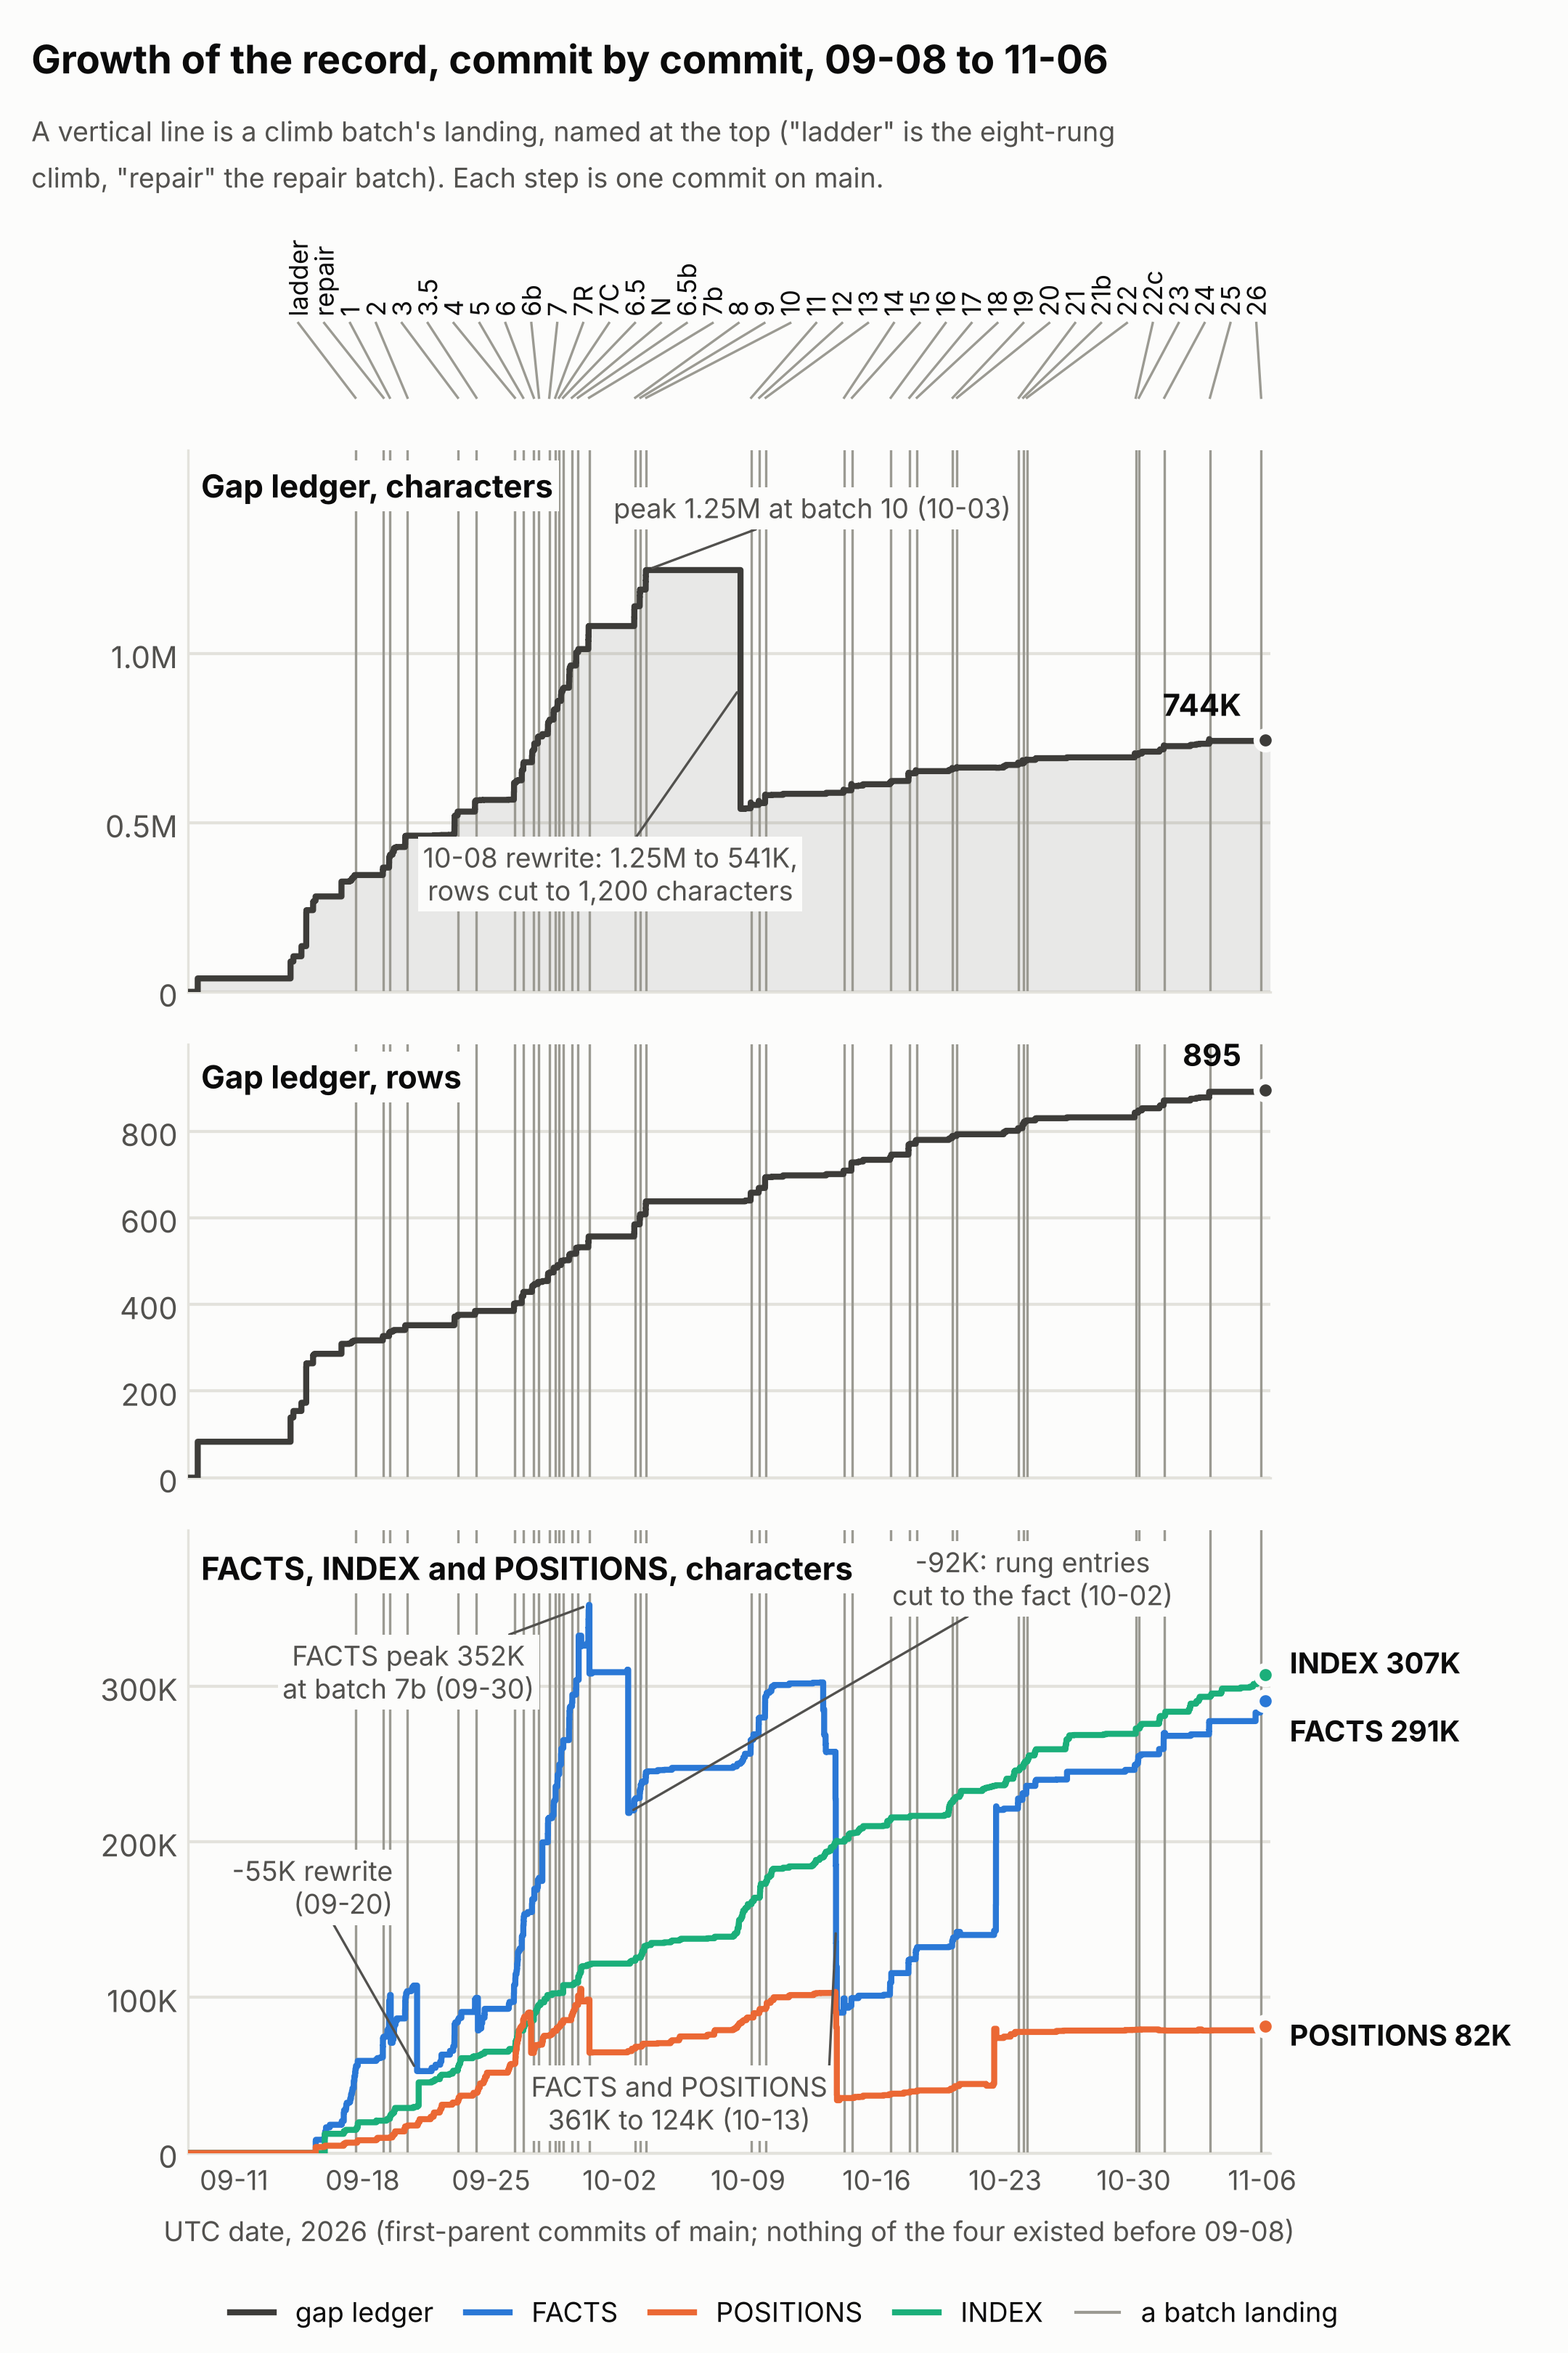
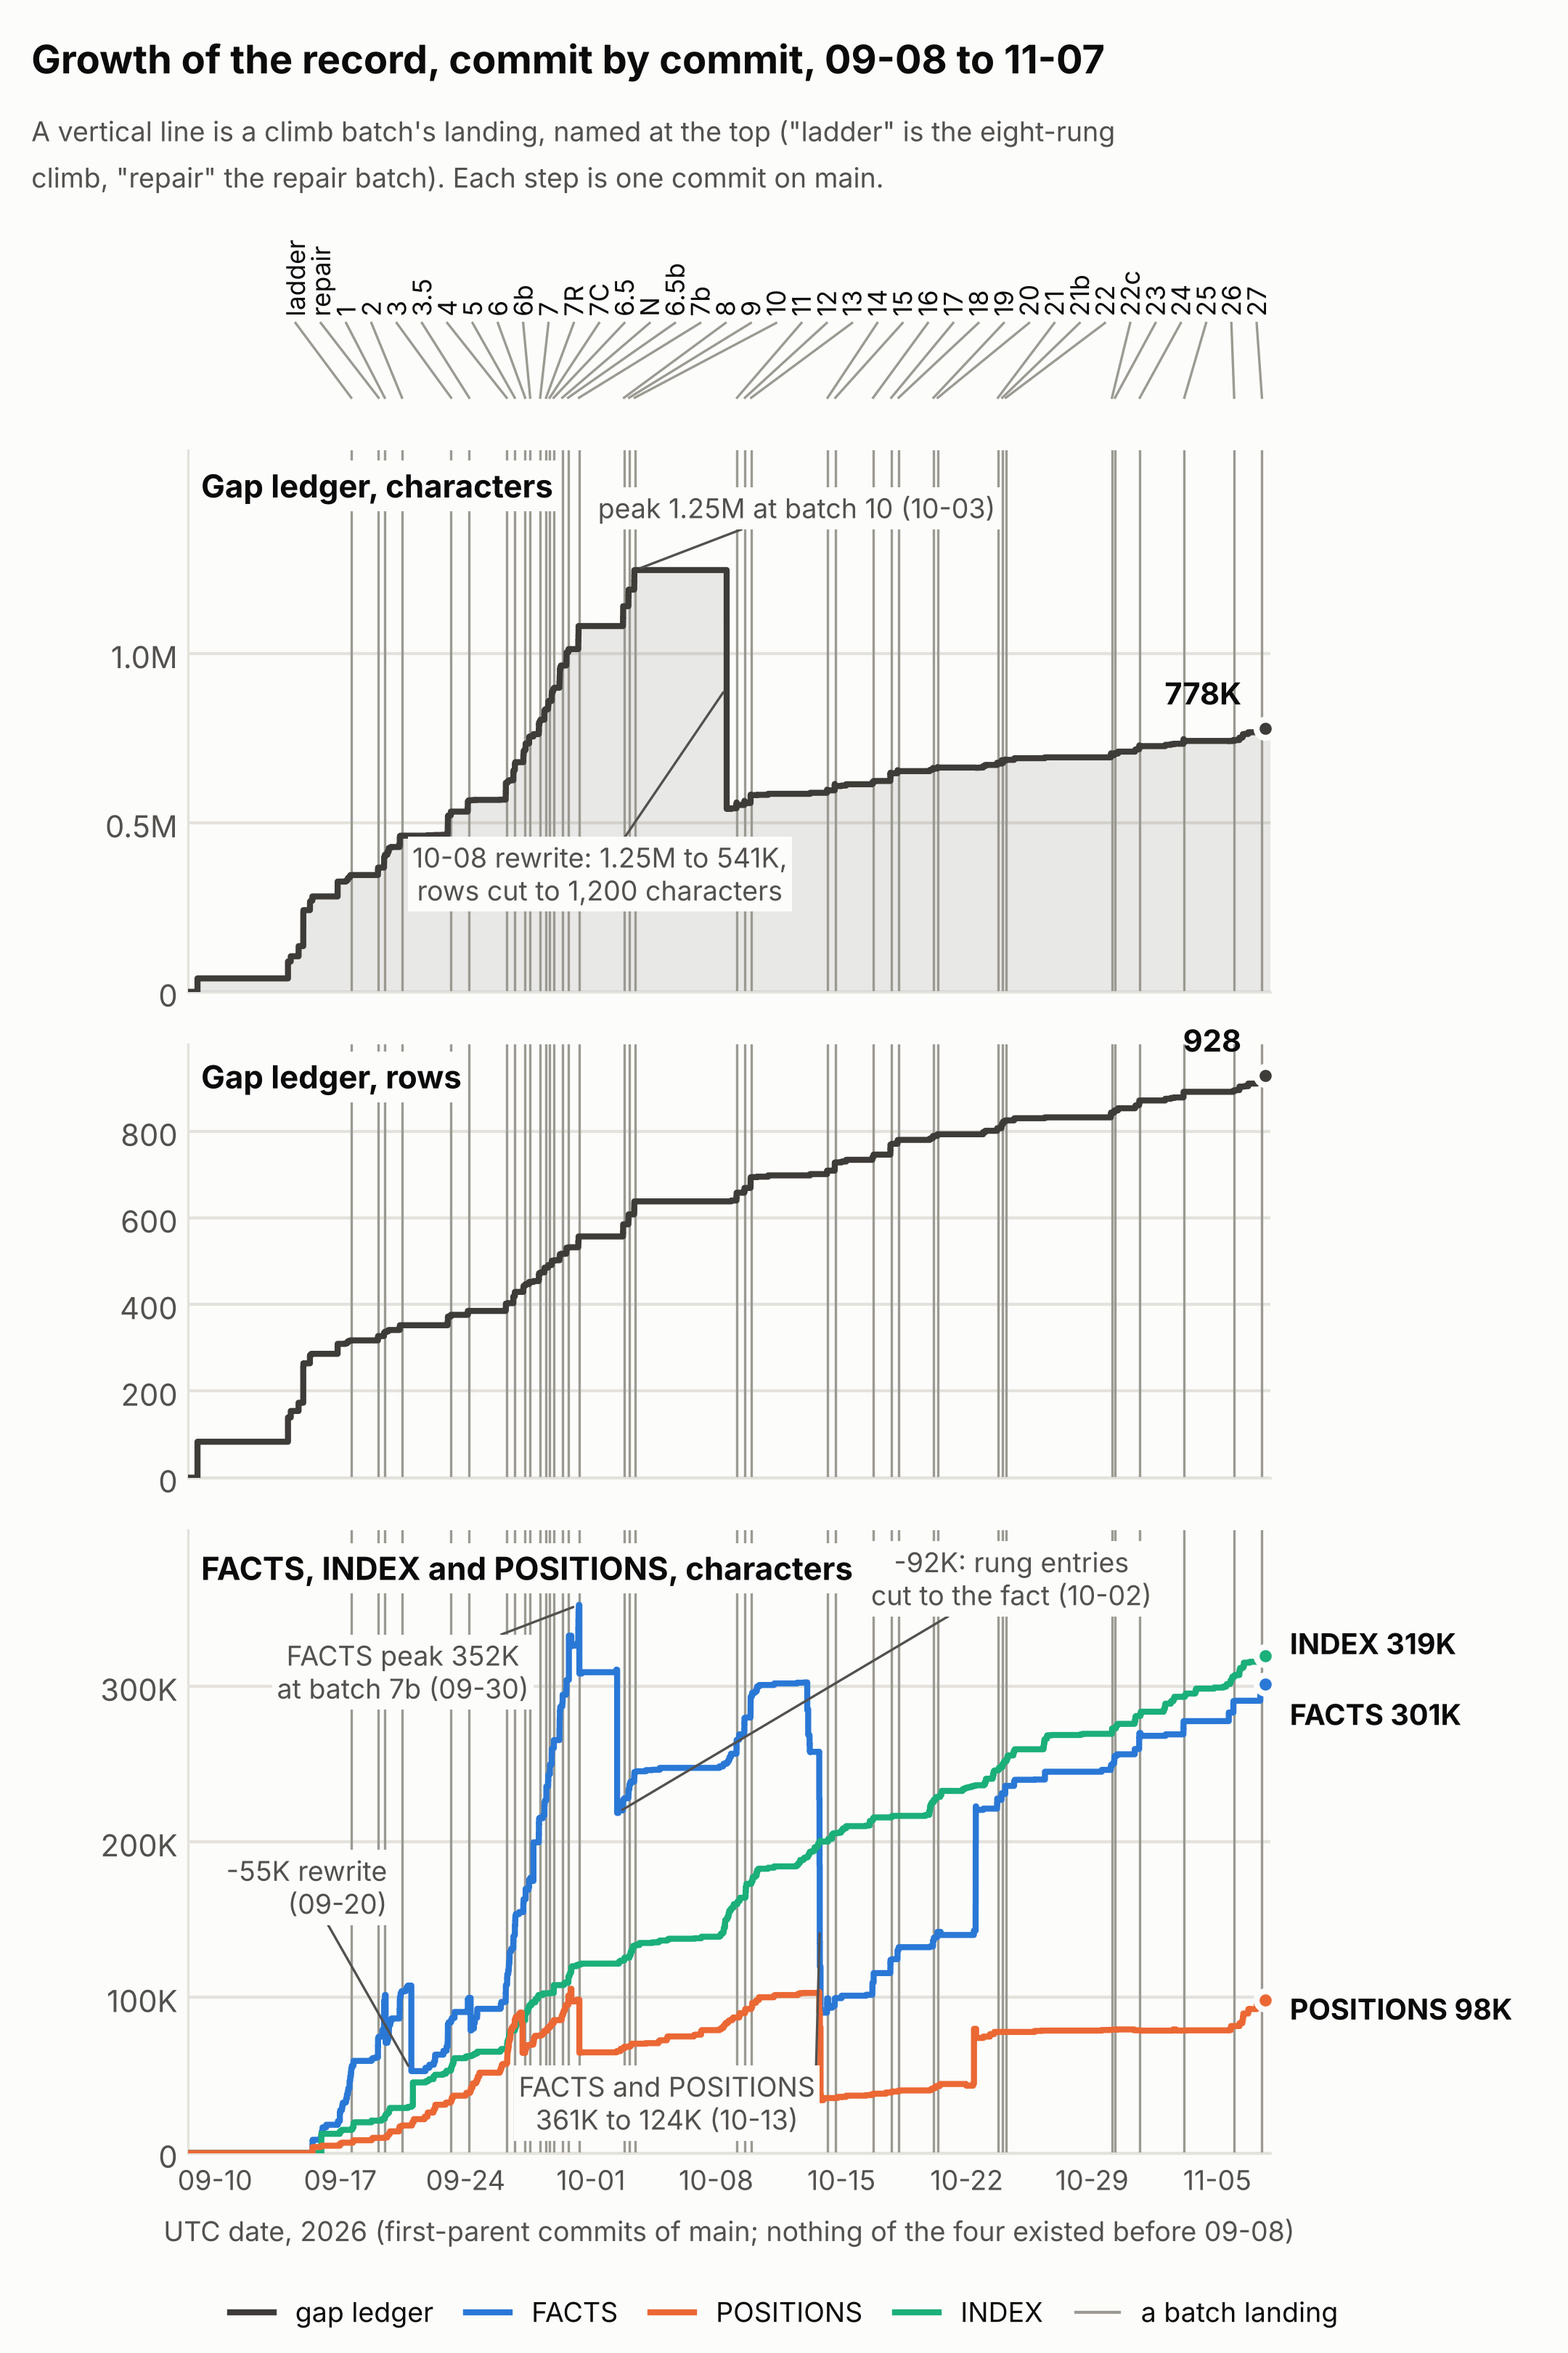
Revival page: where it stands at the landing of climb batch 27, the record chart regenerated
By the climb batch 27 landing workflow, its revival-page step finished by hand:
update.py first stopped on PLAN.md's live thread, whose last landed gate
now reads "climb batch 27's (`<hash>`, pushed at `<hash>`)". Its pattern now
takes the first hash inside the parentheses whether or not more text follows
it, and still stops on any other form. The script then ran with --landing 27
--run-start base, after PLAN.md named the gate's tables commit 29e52a3dc.

Claude-Session: https://claude.ai/code/session_01AmiXNpJxQ6TBwec4vJZHDB

diff --git a/docs/revival-story/index.html b/docs/revival-story/index.html
@@ -201,15 +201,15 @@ details.words dl.gloss dd { margin-left: 1em; }
 <p>A script rewrites the block below at each landing, from the plan and the gate. The rest of the page changes only when a phase ends.</p>
 <div class="intro">
 <!-- stand:begin -->
-<p><strong>Where it stands, at the landing of batch 26 on 5 November 2026</strong></p>
+<p><strong>Where it stands, at the landing of batch 27 on 7 November 2026</strong></p>
 <ul>
 <li><strong>Phase:</strong> 4 of 6, which ends with the switch-over, since 30 October.</li>
 <li><strong>Checker count:</strong> 0.</li>
 <li><strong>Distance:</strong> 0, under one reading that the curator has still to decide (section 5, phase 3).</li>
-<li><strong>Native bindings that both implementations can call:</strong> 306 of 449.</li>
+<li><strong>Native bindings that both implementations can call:</strong> 341 of 443.</li>
 <li><strong>microGPT under the interpreter:</strong> the flat and the APL program pass the quick check.</li>
 <li><strong>microGPT on the compiler:</strong> both programs stop at names that only the library declares, until the switch-over.</li>
-<li><strong>Next:</strong> batch 27, more native bindings and the code generator's gaps, once the curator approves it.</li>
+<li><strong>Next:</strong> batch 28, more native bindings and the code generator's gaps, once the curator approves it.</li>
 </ul>
 <!-- stand:end -->
 </div>
@@ -302,7 +302,7 @@ details.words dl.gloss dd { margin-left: 1em; }
 <section id="the-record" class="part">
 <h2>7. The record</h2>
 <p>The record is the project's notes, kept in the repository beside the team's code. Its main parts are the gap ledger (section 5), the list of facts, the list of the curator's decisions, and an index of all notes. An agent reads the parts its task needs before it starts, so no agent works out again what the record holds.</p>
-<figure><img src="record-growth.png" alt="The gap ledger&#x27;s characters and rows, and FACTS, POSITIONS and INDEX, commit by commit from 09-08 to 11-06, with each batch&#x27;s landing marked" width="1080" height="1620"></figure>
+<figure><img src="record-growth.png" alt="The gap ledger&#x27;s characters and rows, and FACTS, POSITIONS and INDEX, commit by commit from 09-08 to 11-07, with each batch&#x27;s landing marked" width="1080" height="1620"></figure>
 <p>The chart has three panels on one time axis, with a vertical line at each batch's landing. They show the ledger's characters, its rows, and the sizes of the facts, the decisions and the index. The ledger grows mostly while batches run, and the index by one line for each new note. Each sharp fall is a rewrite that shortened the entries, with the earlier text kept in history.</p>
 </section>
 <footer>

diff --git a/explorations/coordinator/process-engineering/revival-story.html b/explorations/coordinator/process-engineering/revival-story.html
@@ -194,15 +194,15 @@ details.words dl.gloss dd { margin-left: 1em; }
 <p>A script rewrites the block below at each landing, from the plan and the gate. The rest of the page changes only when a phase ends.</p>
 <div class="intro">
 <!-- stand:begin -->
-<p><strong>Where it stands, at the landing of batch 26 on 5 November 2026</strong></p>
+<p><strong>Where it stands, at the landing of batch 27 on 7 November 2026</strong></p>
 <ul>
 <li><strong>Phase:</strong> 4 of 6, which ends with the switch-over, since 30 October.</li>
 <li><strong>Checker count:</strong> 0.</li>
 <li><strong>Distance:</strong> 0, under one reading that the curator has still to decide (section 5, phase 3).</li>
-<li><strong>Native bindings that both implementations can call:</strong> 306 of 449.</li>
+<li><strong>Native bindings that both implementations can call:</strong> 341 of 443.</li>
 <li><strong>microGPT under the interpreter:</strong> the flat and the APL program pass the quick check.</li>
 <li><strong>microGPT on the compiler:</strong> both programs stop at names that only the library declares, until the switch-over.</li>
-<li><strong>Next:</strong> batch 27, more native bindings and the code generator's gaps, once the curator approves it.</li>
+<li><strong>Next:</strong> batch 28, more native bindings and the code generator's gaps, once the curator approves it.</li>
 </ul>
 <!-- stand:end -->
 </div>
@@ -295,7 +295,7 @@ details.words dl.gloss dd { margin-left: 1em; }
 <section id="the-record" class="part">
 <h2>7. The record</h2>
 <p>The record is the project's notes, kept in the repository beside the team's code. Its main parts are the gap ledger (section 5), the list of facts, the list of the curator's decisions, and an index of all notes. An agent reads the parts its task needs before it starts, so no agent works out again what the record holds.</p>
-<figure><img src="record-growth.png" alt="The gap ledger&#x27;s characters and rows, and FACTS, POSITIONS and INDEX, commit by commit from 09-08 to 11-06, with each batch&#x27;s landing marked" width="1080" height="1620"></figure>
+<figure><img src="record-growth.png" alt="The gap ledger&#x27;s characters and rows, and FACTS, POSITIONS and INDEX, commit by commit from 09-08 to 11-07, with each batch&#x27;s landing marked" width="1080" height="1620"></figure>
 <p>The chart has three panels on one time axis, with a vertical line at each batch's landing. They show the ledger's characters, its rows, and the sizes of the facts, the decisions and the index. The ledger grows mostly while batches run, and the index by one line for each new note. Each sharp fall is a rewrite that shortened the entries, with the earlier text kept in history.</p>
 </section>
 <footer>

diff --git a/explorations/coordinator/tools/revival-page/update.py b/explorations/coordinator/tools/revival-page/update.py
@@ -95,7 +95,7 @@ def read_values(landing):
     live = one(r'^- \*\*The live thread\.\*\* (.*)$', stand, 'PLAN.md, "Where we stand", the live thread', re.M).group(1)
     m = one(r'^Phase (\d+), ([^:]+): ', live, 'PLAN.md, the live thread\'s opening')
     v['phase'], v['phase_name'] = int(m.group(1)), m.group(2)
-    m = one(r'At the last landed gate, climb batch (\S+?)\'s \(`([0-9a-f]{7,40})`\)', live, 'PLAN.md, the live thread\'s last landed gate')
+    m = one(r'At the last landed gate, climb batch (\S+?)\'s \(`([0-9a-f]{7,40})`[^)]*\)', live, 'PLAN.md, the live thread\'s last landed gate')
     plan_last, plan_commit = m.group(1), m.group(2)
     v['batch'] = landing or plan_last
     current = v['batch'] == plan_last

diff --git a/explorations/coordinator/process-engineering/revival-story.md b/explorations/coordinator/process-engineering/revival-story.md
@@ -124,15 +124,15 @@ A reading is one interpretation of a rule where the specification's text allows 
 A script rewrites the block below at each landing, from the plan and the gate. The rest of the page changes only when a phase ends.
 
 <!-- stand:begin -->
-**Where it stands, at the landing of batch 26 on 5 November 2026**
+**Where it stands, at the landing of batch 27 on 7 November 2026**
 
 - **Phase:** 4 of 6, which ends with the switch-over, since 30 October.
 - **Checker count:** 0.
 - **Distance:** 0, under one reading that the curator has still to decide (section 5, phase 3).
-- **Native bindings that both implementations can call:** 306 of 449.
+- **Native bindings that both implementations can call:** 341 of 443.
 - **microGPT under the interpreter:** the flat and the APL program pass the quick check.
 - **microGPT on the compiler:** both programs stop at names that only the library declares, until the switch-over.
-- **Next:** batch 27, more native bindings and the code generator's gaps, once the curator approves it.
+- **Next:** batch 28, more native bindings and the code generator's gaps, once the curator approves it.
 <!-- stand:end -->
 
 ## 5. What happened
